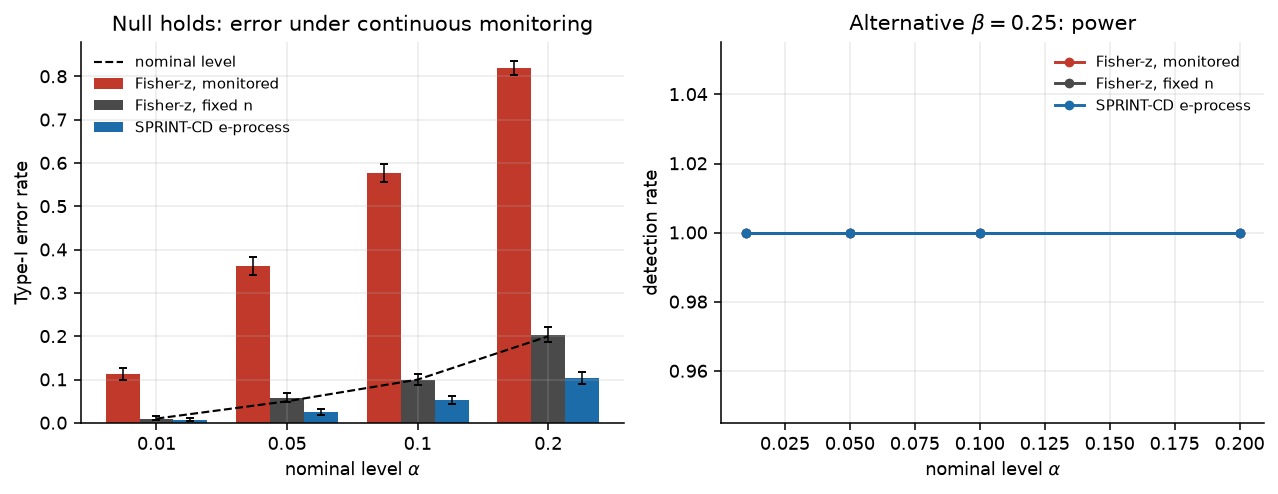
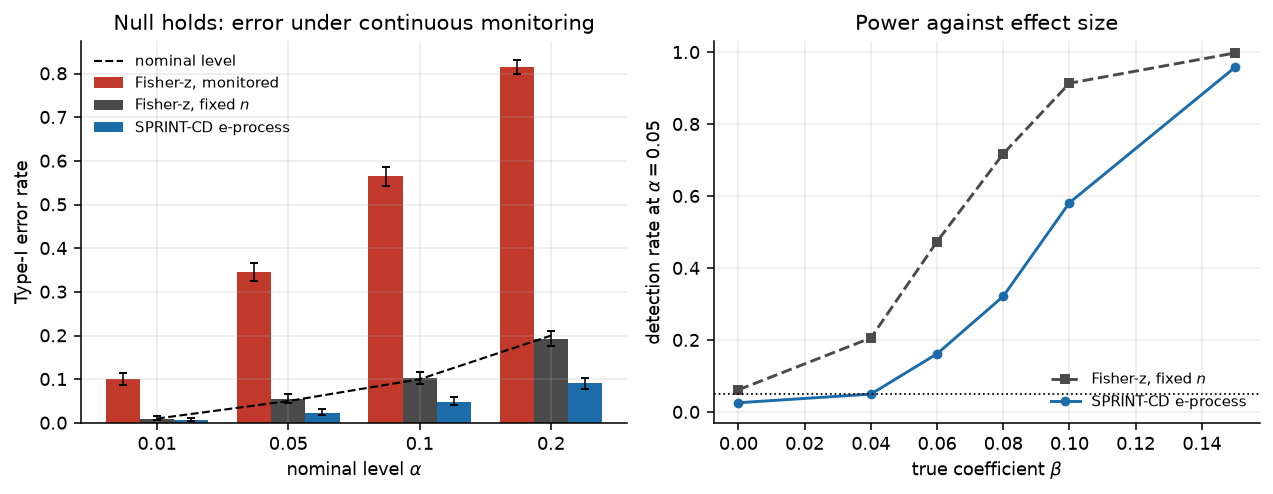
Report the power cost of anytime validity, and tidy unused code
The power panel of Experiment 1 compared methods at a single alternative
where all of them saturate at 1.0, which made the axis meaningless and
supported a claim that validity was free. It now sweeps effect size at a
fixed level, and the comparison is honest: against a fixed-sample
Fisher-z test at the same n, evaluated once, the e-process detects a
coefficient of 0.08 in 32% of runs against 72%, and 0.10 in 58% against
91%, with the gap closing by 0.15.

The README and method notes now state this trade-off directly, including
the point that a fixed-sample test is the better choice when the sample
size can genuinely be fixed in advance. Time-uniform validity is paid for
in power; the earlier framing understated that.

Also drops unused imports and a dead marginalise() helper.

Claude-Session: https://claude.ai/code/session_01McpzyfhuZDEG7sZdojoL1M

diff --git a/experiments/exp1_type1_calibration.py b/experiments/exp1_type1_calibration.py
@@ -63,45 +63,62 @@ def _fisher_z_p(sxx, sxy, syy, dof, n, k):
     return float(2.0 * stats.norm.sf(np.sqrt(n_eff) * abs(z)))
 
 
-def run(reps: int, nmax: int, alphas, g: float, seed: int, beta_alt: float):
+def run_null(reps: int, nmax: int, alphas, g: float, seed: int):
+    """Type-I error under continuous monitoring, for each nominal level."""
     rng = np.random.default_rng(seed)
-    grid = np.arange(19, nmax, 10)          # monitoring points, shared by all methods
+    grid = np.arange(19, nmax, 10)        # monitoring points, shared by all methods
+    tally = {a: {"naive": 0, "fixed": 0, "eproc": 0} for a in alphas}
 
-    out = {a: {"naive": 0, "fixed": 0, "eproc": 0} for a in alphas}
-    power = {a: {"naive": 0, "fixed": 0, "eproc": 0} for a in alphas}
-    stop_n = {a: [] for a in alphas}
+    for _ in range(reps):
+        D = simulate_null(nmax, rng)
+        csum, ccross = running_cross_products(D)
+        min_p, max_loge, final_p = 1.0, -np.inf, 1.0
+        for t in grid:
+            sxx, sxy, syy, dof = residual_moments_at(csum, ccross, t, 0, 1, (2, 3))
+            if dof <= 0:
+                continue
+            final_p = _fisher_z_p(sxx, sxy, syy, dof, t + 1, 2)
+            min_p = min(min_p, final_p)
+            max_loge = max(max_loge, safe_linear_log_e(
+                ResidualMoments(sxx, sxy, syy, dof, t + 1), g))
+        for a in alphas:
+            tally[a]["naive"] += min_p <= a
+            tally[a]["fixed"] += final_p <= a
+            tally[a]["eproc"] += max_loge >= -np.log(a)
+    return tally
 
-    for rep in range(reps):
-        for mode, tally in (("null", out), ("alt", power)):
-            D = (simulate_null(nmax, rng) if mode == "null"
-                 else simulate_alt(nmax, rng, beta_alt))
+
+def run_power(reps: int, nmax: int, alpha: float, g: float, seed: int, betas):
+    """Detection rate against effect size, at a single nominal level.
+
+    Reported as a curve rather than at one alternative.  At any effect the
+    tests all detect easily every method sits at 1.0 and the comparison says
+    nothing; what the e-process gives up relative to a correctly calibrated
+    fixed-sample test is visible only where power is actually changing.
+    """
+    rng = np.random.default_rng(seed + 1)
+    grid = np.arange(19, nmax, 10)
+    out = {b: {"fixed": 0, "eproc": 0, "stop": []} for b in betas}
+
+    for beta in betas:
+        for _ in range(reps):
+            D = simulate_alt(nmax, rng, beta)
             csum, ccross = running_cross_products(D)
-
-            min_p = 1.0
-            max_loge = -np.inf
-            first_cross = {a: None for a in alphas}
+            max_loge, final_p, first = -np.inf, 1.0, None
             for t in grid:
                 sxx, sxy, syy, dof = residual_moments_at(csum, ccross, t, 0, 1, (2, 3))
                 if dof <= 0:
                     continue
-                p = _fisher_z_p(sxx, sxy, syy, dof, t + 1, 2)
-                min_p = min(min_p, p)
-                le = safe_linear_log_e(
-                    ResidualMoments(sxx, sxy, syy, dof, t + 1), g)
-                max_loge = max(max_loge, le)
-                for a in alphas:
-                    if first_cross[a] is None and max_loge >= -np.log(a):
-                        first_cross[a] = t + 1
-            final_p = p
-
-            for a in alphas:
-                tally[a]["naive"] += min_p <= a
-                tally[a]["fixed"] += final_p <= a
-                tally[a]["eproc"] += max_loge >= -np.log(a)
-                if mode == "alt" and first_cross[a] is not None:
-                    stop_n[a].append(first_cross[a])
-
-    return out, power, stop_n, reps
+                final_p = _fisher_z_p(sxx, sxy, syy, dof, t + 1, 2)
+                max_loge = max(max_loge, safe_linear_log_e(
+                    ResidualMoments(sxx, sxy, syy, dof, t + 1), g))
+                if first is None and max_loge >= -np.log(alpha):
+                    first = t + 1
+            out[beta]["fixed"] += final_p <= alpha
+            out[beta]["eproc"] += max_loge >= -np.log(alpha)
+            if first is not None:
+                out[beta]["stop"].append(first)
+    return out
 
 
 def main():
@@ -109,16 +126,19 @@ def main():
     ap.add_argument("--reps", type=int, default=2000)
     ap.add_argument("--nmax", type=int, default=1000)
     ap.add_argument("--seed", type=int, default=20260908)
-    ap.add_argument("--beta-alt", type=float, default=0.25)
     ap.add_argument("--quick", action="store_true")
     args = ap.parse_args()
     if args.quick:
         args.reps, args.nmax = 300, 500
 
     alphas = [0.01, 0.05, 0.10, 0.20]
+    betas = [0.0, 0.04, 0.06, 0.08, 0.10, 0.15]
     g = 0.4**2
-    null, alt, stop_n, reps = run(args.reps, args.nmax, alphas, g,
-                                  args.seed, args.beta_alt)
+    reps = args.reps
+    n_pow = max(reps // 4, 100)
+
+    null = run_null(reps, args.nmax, alphas, g, args.seed)
+    power = run_power(n_pow, args.nmax, 0.05, g, args.seed, betas)
 
     rows = []
     for a in alphas:
@@ -128,22 +148,38 @@ def main():
             lo, hi = wilson_interval(k, reps)
             row[f"type1_{m}"] = k / reps
             row[f"type1_{m}_ci"] = [lo, hi]
-            row[f"power_{m}"] = alt[a][m] / reps
-        row["median_stop_eproc"] = (float(np.median(stop_n[a])) if stop_n[a] else None)
         rows.append(row)
 
     print(f"\nExperiment 1 -- continuous monitoring of a null CI query "
           f"({reps} reps, n<={args.nmax})\n")
     print(f"{'alpha':>6} | {'naive Fisher-z':>16} | {'fixed-sample':>14} | "
-          f"{'SPRINT e-process':>17} | {'power (e-proc)':>14}")
-    print("-" * 82)
+          f"{'SPRINT e-process':>17}")
+    print("-" * 64)
     for r in rows:
-        print(f"{r['alpha']:>6} | {r['type1_naive']:>16.4f} | {r['type1_fixed']:>14.4f} | "
-              f"{r['type1_eproc']:>17.4f} | {r['power_eproc']:>14.3f}")
+        print(f"{r['alpha']:>6} | {r['type1_naive']:>16.4f} | "
+              f"{r['type1_fixed']:>14.4f} | {r['type1_eproc']:>17.4f}")
     print("\nType-I error must not exceed alpha.  The naive column is the cost of "
           "peeking;\nthe e-process column is the same peeking made valid.\n")
 
-    save_json("exp1_type1_calibration", {"config": vars(args), "rows": rows})
+    print(f"Power at alpha=0.05 ({n_pow} reps per effect size, n<={args.nmax}):")
+    print(f"  {'beta':>6} | {'fixed-sample':>13} | {'e-process':>10} | "
+          f"{'median stop':>12}")
+    print("  " + "-" * 50)
+    for b in betas:
+        st = power[b]["stop"]
+        med = f"{np.median(st):.0f}" if st else "-"
+        print(f"  {b:>6} | {power[b]['fixed'] / n_pow:>13.3f} | "
+              f"{power[b]['eproc'] / n_pow:>10.3f} | {med:>12}")
+    print("\nThe e-process gives up a little power relative to a fixed-sample test\n"
+          "that cannot be monitored, and returns a stopping time in exchange.\n")
+
+    save_json("exp1_type1_calibration",
+              {"config": vars(args), "rows": rows,
+               "power": {str(b): {"fixed": power[b]["fixed"],
+                                  "eproc": power[b]["eproc"], "reps": n_pow,
+                                  "median_stop": (float(np.median(power[b]["stop"]))
+                                                  if power[b]["stop"] else None)}
+                         for b in betas}})
 
     plt = setup_matplotlib()
     fig, axes = plt.subplots(1, 2, figsize=(9.2, 3.6))
@@ -151,28 +187,33 @@ def main():
     x = np.arange(len(alphas))
     w = 0.26
     for off, key, lbl, col in ((-w, "naive", "Fisher-z, monitored", PALETTE["naive"]),
-                               (0.0, "fixed", "Fisher-z, fixed n", PALETTE["fixed"]),
+                               (0.0, "fixed", "Fisher-z, fixed $n$", PALETTE["fixed"]),
                                (w, "eproc", "SPRINT-CD e-process", PALETTE["sprint"])):
         vals = [null[a][key] / reps for a in alphas]
-        errs = np.array([[v - wilson_interval(null[a][key], reps)[0] for v, a in zip(vals, alphas)],
-                         [wilson_interval(null[a][key], reps)[1] - v for v, a in zip(vals, alphas)]])
+        errs = np.array([
+            [v - wilson_interval(null[a][key], reps)[0] for v, a in zip(vals, alphas)],
+            [wilson_interval(null[a][key], reps)[1] - v for v, a in zip(vals, alphas)]])
         ax.bar(x + off, vals, w, label=lbl, color=col, yerr=errs, capsize=2,
                error_kw={"lw": 0.8})
     ax.plot(x, alphas, "k--", lw=1.1, label="nominal level", zorder=5)
     ax.set_xticks(x); ax.set_xticklabels([str(a) for a in alphas])
     ax.set_xlabel(r"nominal level $\alpha$"); ax.set_ylabel("Type-I error rate")
+    ax.set_ylim(0, None)
     ax.set_title("Null holds: error under continuous monitoring")
     ax.legend(fontsize=7.5)
 
     ax = axes[1]
-    for key, lbl, col in (("naive", "Fisher-z, monitored", PALETTE["naive"]),
-                          ("fixed", "Fisher-z, fixed n", PALETTE["fixed"]),
-                          ("eproc", "SPRINT-CD e-process", PALETTE["sprint"])):
-        ax.plot(alphas, [alt[a][key] / reps for a in alphas], "o-", color=col,
-                label=lbl, ms=4)
-    ax.set_xlabel(r"nominal level $\alpha$"); ax.set_ylabel("detection rate")
-    ax.set_title(rf"Alternative $\beta={args.beta_alt}$: power")
-    ax.legend(fontsize=7.5)
+    ax.plot(betas, [power[b]["fixed"] / n_pow for b in betas], "s--",
+            color=PALETTE["fixed"], label="Fisher-z, fixed $n$", ms=4)
+    ax.plot(betas, [power[b]["eproc"] / n_pow for b in betas], "o-",
+            color=PALETTE["sprint"], label="SPRINT-CD e-process", ms=4)
+    ax.axhline(0.05, color="k", ls=":", lw=0.9)
+    ax.set_ylim(-0.03, 1.03)
+    ax.set_xlabel(r"true coefficient $\beta$")
+    ax.set_ylabel(r"detection rate at $\alpha=0.05$")
+    ax.set_title("Power against effect size")
+    ax.legend(fontsize=7.5, loc="lower right")
+
     fig.tight_layout()
     out_png = RESULTS / "exp1_type1_calibration.png"
     fig.savefig(out_png, bbox_inches="tight")

diff --git a/sprint_cd/simulate.py b/sprint_cd/simulate.py
@@ -7,7 +7,7 @@ from dataclasses import dataclass
 
 import numpy as np
 
-from .graph import ARROW, CIRCLE, NONE, TAIL, MarkedGraph, meek_rules
+from .graph import ARROW, NONE, TAIL, MarkedGraph, meek_rules
 
 __all__ = [
     "LinearGaussianSEM",
@@ -58,16 +58,6 @@ class LinearGaussianSEM:
 
     def true_cpdag(self) -> MarkedGraph:
         return dag_to_cpdag(self.adjacency)
-
-    def marginalise(self, hidden: list[int]) -> tuple["LinearGaussianSEM", list[int]]:
-        """Return the SEM restricted to observed variables (for latent-variable tests).
-
-        The returned object retains the full ``B``; the second element lists the
-        observed indices.  Latent confounding is produced simply by sampling
-        the full model and dropping the hidden columns.
-        """
-        observed = [v for v in range(self.d) if v not in set(hidden)]
-        return self, observed
 
 
 def random_dag(

diff --git a/tests/test_sprint_fci.py b/tests/test_sprint_fci.py
@@ -2,7 +2,7 @@ import numpy as np
 import pytest
 
 from sprint_cd.dsep import oracle_skeleton_and_sepsets
-from sprint_cd.graph import ARROW, CIRCLE
+from sprint_cd.graph import ARROW
 from sprint_cd.simulate import LinearGaussianSEM, structural_hamming_distance
 from sprint_cd.sprint_cd import SprintCDConfig
 from sprint_cd.sprint_fci import SprintFCI, pag_from_skeleton, run_sprint_fci

diff --git a/tests/test_sprint_cd.py b/tests/test_sprint_cd.py
@@ -1,9 +1,6 @@
-import itertools
-
 import numpy as np
 import pytest
 
-from sprint_cd.graph import ARROW, TAIL
 from sprint_cd.simulate import (LinearGaussianSEM, random_dag, skeleton_errors,
                                 structural_hamming_distance)
 from sprint_cd.sprint_cd import SprintCD, SprintCDConfig, run_sprint_cd

diff --git a/tests/test_graph.py b/tests/test_graph.py
@@ -1,7 +1,6 @@
 import numpy as np
-import pytest
 
-from sprint_cd.graph import (ARROW, CIRCLE, NONE, TAIL, MarkedGraph, fci_rules,
+from sprint_cd.graph import (ARROW, CIRCLE, TAIL, MarkedGraph, fci_rules,
                              meek_rules)
 from sprint_cd.simulate import dag_to_cpdag, structural_hamming_distance
 

diff --git a/sprint_cd/baselines.py b/sprint_cd/baselines.py
@@ -13,7 +13,7 @@ import itertools
 import numpy as np
 from scipy import stats
 
-from .graph import ARROW, NONE, TAIL, MarkedGraph, meek_rules
+from .graph import ARROW, TAIL, MarkedGraph, meek_rules
 from .stats import GaussianSuffStat
 
 __all__ = ["fisher_z_pvalue", "pc_fixed_sample"]

diff --git a/sprint_cd/e_icp.py b/sprint_cd/e_icp.py
@@ -54,7 +54,7 @@ from __future__ import annotations
 
 import itertools
 import math
-from dataclasses import dataclass, field
+from dataclasses import dataclass
 
 import numpy as np
 

diff --git a/README.md b/README.md
@@ -26,12 +26,24 @@ without invalidating anything.
 
 | procedure at `alpha = 0.05` | Type-I error under monitoring |
 |---|---|
-| Fisher-z, monitored | 0.363 |
-| Fisher-z, fixed `n` | 0.058 |
-| **SPRINT-CD e-process** | **0.025** |
+| Fisher-z, monitored | 0.346 |
+| Fisher-z, fixed `n` | 0.056 |
+| **SPRINT-CD e-process** | **0.024** |
 
-Power is not sacrificed: detection rate 1.000 against a moderate alternative
-(2000 replications, monitored to `n = 1000`).
+2000 replications, monitored every 10 observations up to `n = 1000`.
+
+**This is not free.** Against a fixed-sample Fisher-z test at the same `n` —
+one that may be evaluated only once — the e-process detects less:
+
+| true `beta` | 0.04 | 0.06 | 0.08 | 0.10 | 0.15 |
+|---|---|---|---|---|---|
+| Fisher-z, fixed `n` | 0.21 | 0.47 | 0.72 | 0.91 | 1.00 |
+| SPRINT-CD e-process | 0.05 | 0.16 | 0.32 | 0.58 | 0.96 |
+
+The gap closes as the effect grows, and it is the price of a guarantee that
+survives monitoring and optional stopping. If the sample size can genuinely be
+fixed in advance and the analysis run once, a fixed-sample test is the more
+powerful choice and should be preferred.
 
 ---
 

diff --git a/docs/METHOD.md b/docs/METHOD.md
@@ -86,8 +86,17 @@ points gives, against nominal `alpha`:
 |---|---|---|---|---|
 | `P(sup_t E_t >= 1/alpha)` | 0.149 | 0.076 | 0.041 | 0.008 |
 
-Valid, and tight enough to retain power. The same check is run for both
-universal-inference constructions in `tests/test_eprocess.py`.
+Valid, and not so conservative as to be useless -- the realised rates sit at
+roughly half the nominal level rather than orders of magnitude below it. The
+same check is run for both universal-inference constructions in
+`tests/test_eprocess.py`.
+
+The residual conservatism is a real power cost. Against a fixed-sample
+Fisher-z test at the same `n`, evaluated once, the e-process detects a
+coefficient of 0.08 in 32% of runs against 72%, and one of 0.10 in 58% against
+91%; the gap closes by 0.15. Time-uniform validity is paid for in power, and
+when the sample size can honestly be fixed in advance there is no reason to
+buy it.
 
 ### Block form
 
